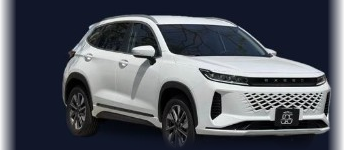
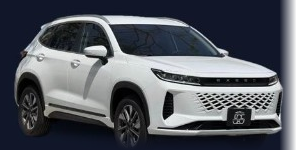
Drop the wordmark and match the three car frames to the rest
The extra left padding and CSS offset made the Exceed, Tiggo and MG ZS
look shoved aside. They now have the same even crop as the other cars,
and the sidebar is the logo on its own again.

diff --git a/src/components/Layout.tsx b/src/components/Layout.tsx
@@ -10,6 +10,7 @@ const LINKS = [
   { to: '/bookings', label: 'nav.bookings', icon: ScrollText, end: true },
 ];
 
+const logo = `${import.meta.env.BASE_URL}brand/logo.png`;
 const mark = `${import.meta.env.BASE_URL}brand/mark.png`;
 
 export function Layout({ children }: { children: ReactNode }) {
@@ -73,27 +74,19 @@ export function Layout({ children }: { children: ReactNode }) {
 }
 
 function Brand({ compact = false }: { compact?: boolean }) {
-  const wordmark = (
-    <span className="min-w-0 text-[13px] font-bold leading-tight tracking-tight text-black">
-      525 <span className="text-[#d1202d]">Rent a Car</span>
-    </span>
-  );
-
   if (compact) {
     return (
-      <div className="flex items-center gap-2 rounded-md bg-white px-2 py-1">
-        <img src={mark} alt="" className="h-9 w-auto" />
-        {wordmark}
-      </div>
+      <img
+        src={mark}
+        alt="Five Two Five Rent A Car"
+        className="h-11 w-auto rounded-md bg-white px-2 py-1"
+      />
     );
   }
 
   return (
     <div className="mx-3 mt-4 rounded-xl bg-white p-3">
-      <div className="flex items-center gap-3">
-        <img src={mark} alt="Five Two Five" className="h-14 w-auto shrink-0" />
-        {wordmark}
-      </div>
+      <img src={logo} alt="Five Two Five Rent A Car" className="w-full" />
     </div>
   );
 }

diff --git a/src/components/CarPhoto.tsx b/src/components/CarPhoto.tsx
@@ -4,12 +4,6 @@ import type { CarModel } from '../domain/types';
  * The car cutouts keep the navy they were photographed on, with their edges
  * faded, so they need to sit on that same navy to look seamless.
  */
-const FRAME: Record<string, string> = {
-  'exceed-lx-2025': 'object-[65%_center]',
-  'chery-tiggo-7': 'object-[65%_center]',
-  'mg-zs': 'object-[65%_center]',
-};
-
 export function CarPhoto({
   model,
   alt,
@@ -23,15 +17,13 @@ export function CarPhoto({
     return <div className={`bg-ink-850 ${className}`} />;
   }
 
-  const fit = FRAME[model.id] ?? 'object-center';
-
   return (
     <div className={`relative overflow-hidden bg-ink-850 ${className}`}>
       <img
         src={model.image}
         alt={alt}
         loading="lazy"
-        className={`h-full w-full object-contain ${fit}`}
+        className="h-full w-full object-contain object-center"
       />
     </div>
   );
